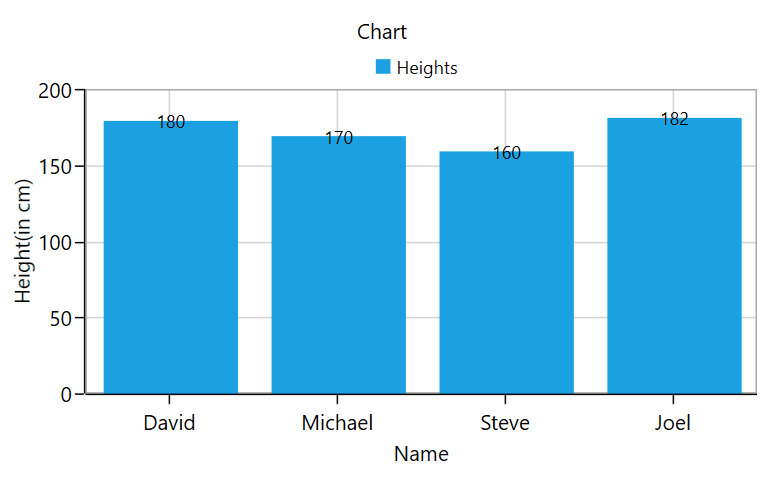
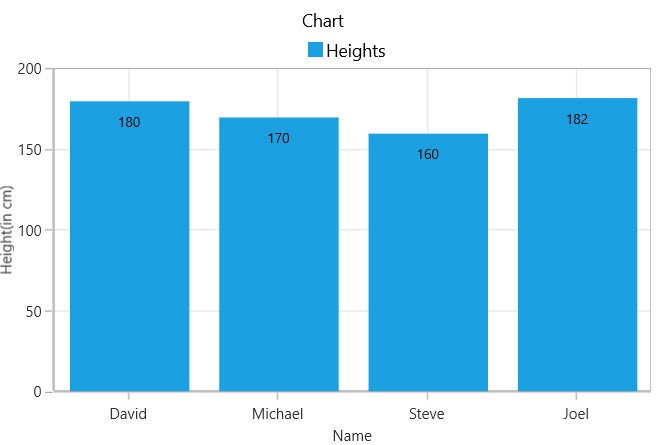
Updated the images of getting started.

Changed region(s): [[0.0, 0.0292, 0.997, 0.964], [0.4834, 0.9348, 0.6042, 0.9933]]

diff --git a/winui/Charts/Getting-Started.md b/winui/Charts/Getting-Started.md
@@ -13,13 +13,13 @@ This section explains you the steps required to populate the Chart with data, he
 
 ## Adding chart reference
 
-Refer to the [Control Dependencies]() section to get the list of assemblies or NuGet package that needs to be added as a reference to use the control in any application.
+Refer to the [Control Dependencies]() section to get the list of NuGet package that needs to be added as a reference to use the control in any application.
 
 Refer to this [documentation]() to find more details about installing nuget packages in a WinUI application.
 
 ## Initialize chart
 
-Import the chart namespace as follows in your respective Window.
+Import the chart namespace as follows in your respective page.
 
 {% tabs %} 
 
@@ -357,7 +357,7 @@ You can add data labels to improve the readability of the chart and it can be en
 	...
   <syncfusion:ColumnSeries > 
         <syncfusion:ColumnSeries.DataMarker>
-            <syncfusion:ChartDataMarker ShowLabel="True" />
+            <syncfusion:ChartDataMarker LabelPosition="Inner" ShowLabel="True" />
         </syncfusion:ColumnSeries.DataMarker>
   </syncfusion:ColumnSeries>  
 	...
@@ -544,7 +544,7 @@ The following code example gives you the complete code of above configurations.
                                       ShowTooltip="True">
                    <!--Add data marker to the series-->                
                     <syncfusion:ColumnSeries.DataMarker>
-                        <syncfusion:ChartDataMarker ShowLabel="True" />
+                        <syncfusion:ChartDataMarker LabelPosition="Inner" ShowLabel="True" />
                     </syncfusion:ColumnSeries.DataMarker>               
             </syncfusion:ColumnSeries>          
 
@@ -665,5 +665,5 @@ The following chart is created as a result of the previous codes.
 
 ![Getting Started WinUI Chart](Getting-Started_images/img3.png)
 
-You can find the complete getting started sample from this [link](https://www.syncfusion.com/downloads/support/directtrac/general/ze/Chart_GettingStarted-1219248669.zip).
+You can find the complete getting started sample from this [link](https://www.syncfusion.com/downloads/support/directtrac/general/ze/Chart_GettingStarted-1703269833.zip).
 
